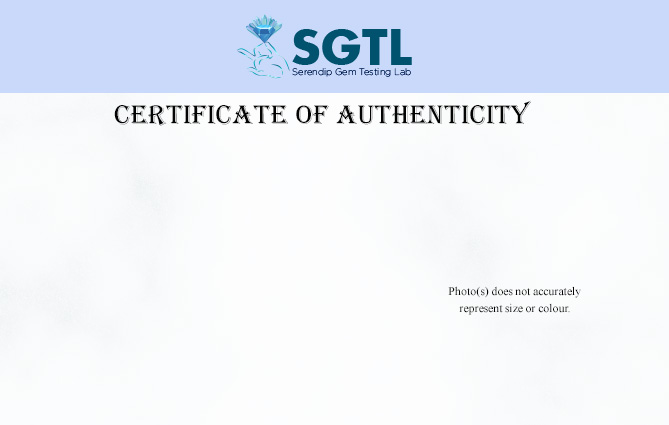
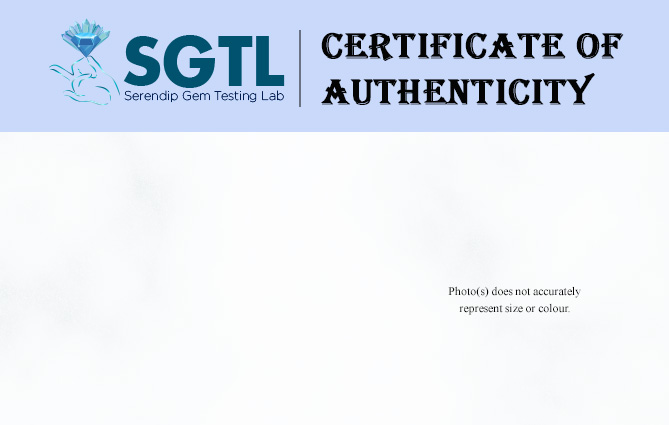
final  updates

Changed region(s): [[0.0, 0.0306, 1.0, 0.3365]]

diff --git a/src/app/pages/pdf-generation/pdf-generation-report/pdf-generation-report.component.ts b/src/app/pages/pdf-generation/pdf-generation-report/pdf-generation-report.component.ts
@@ -188,7 +188,7 @@ export class PdfGenerationReportComponent implements OnInit {
       let toast = this.toasterService
       qrImg.onload = function () {
         subject.next({ image: IMAGES.QR })
-        doc.addImage(qrImg, "png", 23.5, 16.9, 1.6, 1.6);
+        doc.addImage(qrImg, "png", 23.95, 16.8, 1.8, 1.8);
         const blob = doc.output("blob");
         const file = new File([blob], "filename")
         const filePath = "viewpdf/report/" + id
@@ -211,9 +211,9 @@ export class PdfGenerationReportComponent implements OnInit {
       // signature.src = '/assets/pdf-templates/signature.png';
       doc.addImage(templateImg, "jpeg", 0, 0, docWidth, docHeight);
       this.addTextInfo(doc)
-      doc.addImage(gemImg, "png", 20.275, 3.5, 4.5, 4.5);
+      doc.addImage(gemImg, "png", 20.275, 3, 4.5, 4.5);
       if (this.includeSignature){
-        doc.addImage(signature, "png", 20.275, 13.8, 4, 2);
+        doc.addImage(signature, "png", 20.5, 13.8, 4, 2);
       }
 
     } else {

diff --git a/src/app/pages/pdf-generation/pdf-generation-card/pdf-generation-card.component.ts b/src/app/pages/pdf-generation/pdf-generation-card/pdf-generation-card.component.ts
@@ -221,15 +221,15 @@ export class PdfGenerationCardComponent implements OnInit {
   }
 
   addTextInfo(doc: jsPDF) {
-    let keyMargin = 0.75
-    let valueMargin = 3.45
-    var spacing = 0.32
+    let keyMargin = 0.58
+    let valueMargin = 3.5
+    var spacing = 0.326
 
     var postion = 2.3
 
     // Basic
     // doc.setFont("times", "bold")//Courier, Helvetica, Times, courier, helvetica, times
-    doc.setFontSize(5)
+    doc.setFontSize(7)
     this.cardContext.getAllDetailsMap().forEach((value, key) => {
       doc.text(key, keyMargin, postion, { align: "left" });
       doc.text(": " + value, valueMargin - 1, postion, { align: "left" });

diff --git a/src/app/shared/models/contextDTOs.ts b/src/app/shared/models/contextDTOs.ts
@@ -78,8 +78,8 @@ export class ReportContext {
         let testData = new Map<string, string>()
 
         testData.set("Refractive Index", this.refractiveIndex)
-        testData.set("Specific Gravity", this.specificGravity)
-        testData.set("Hardness", this.hardness)
+        testData.set("Specific Gravity (ref data)", this.specificGravity)
+        testData.set("Hardness (ref data)", this.hardness)
         testData.set("Optic Character", this.opticCharacter)
         testData.set("Magnification", this.magnification)
         testData.set("Color", this.color)
